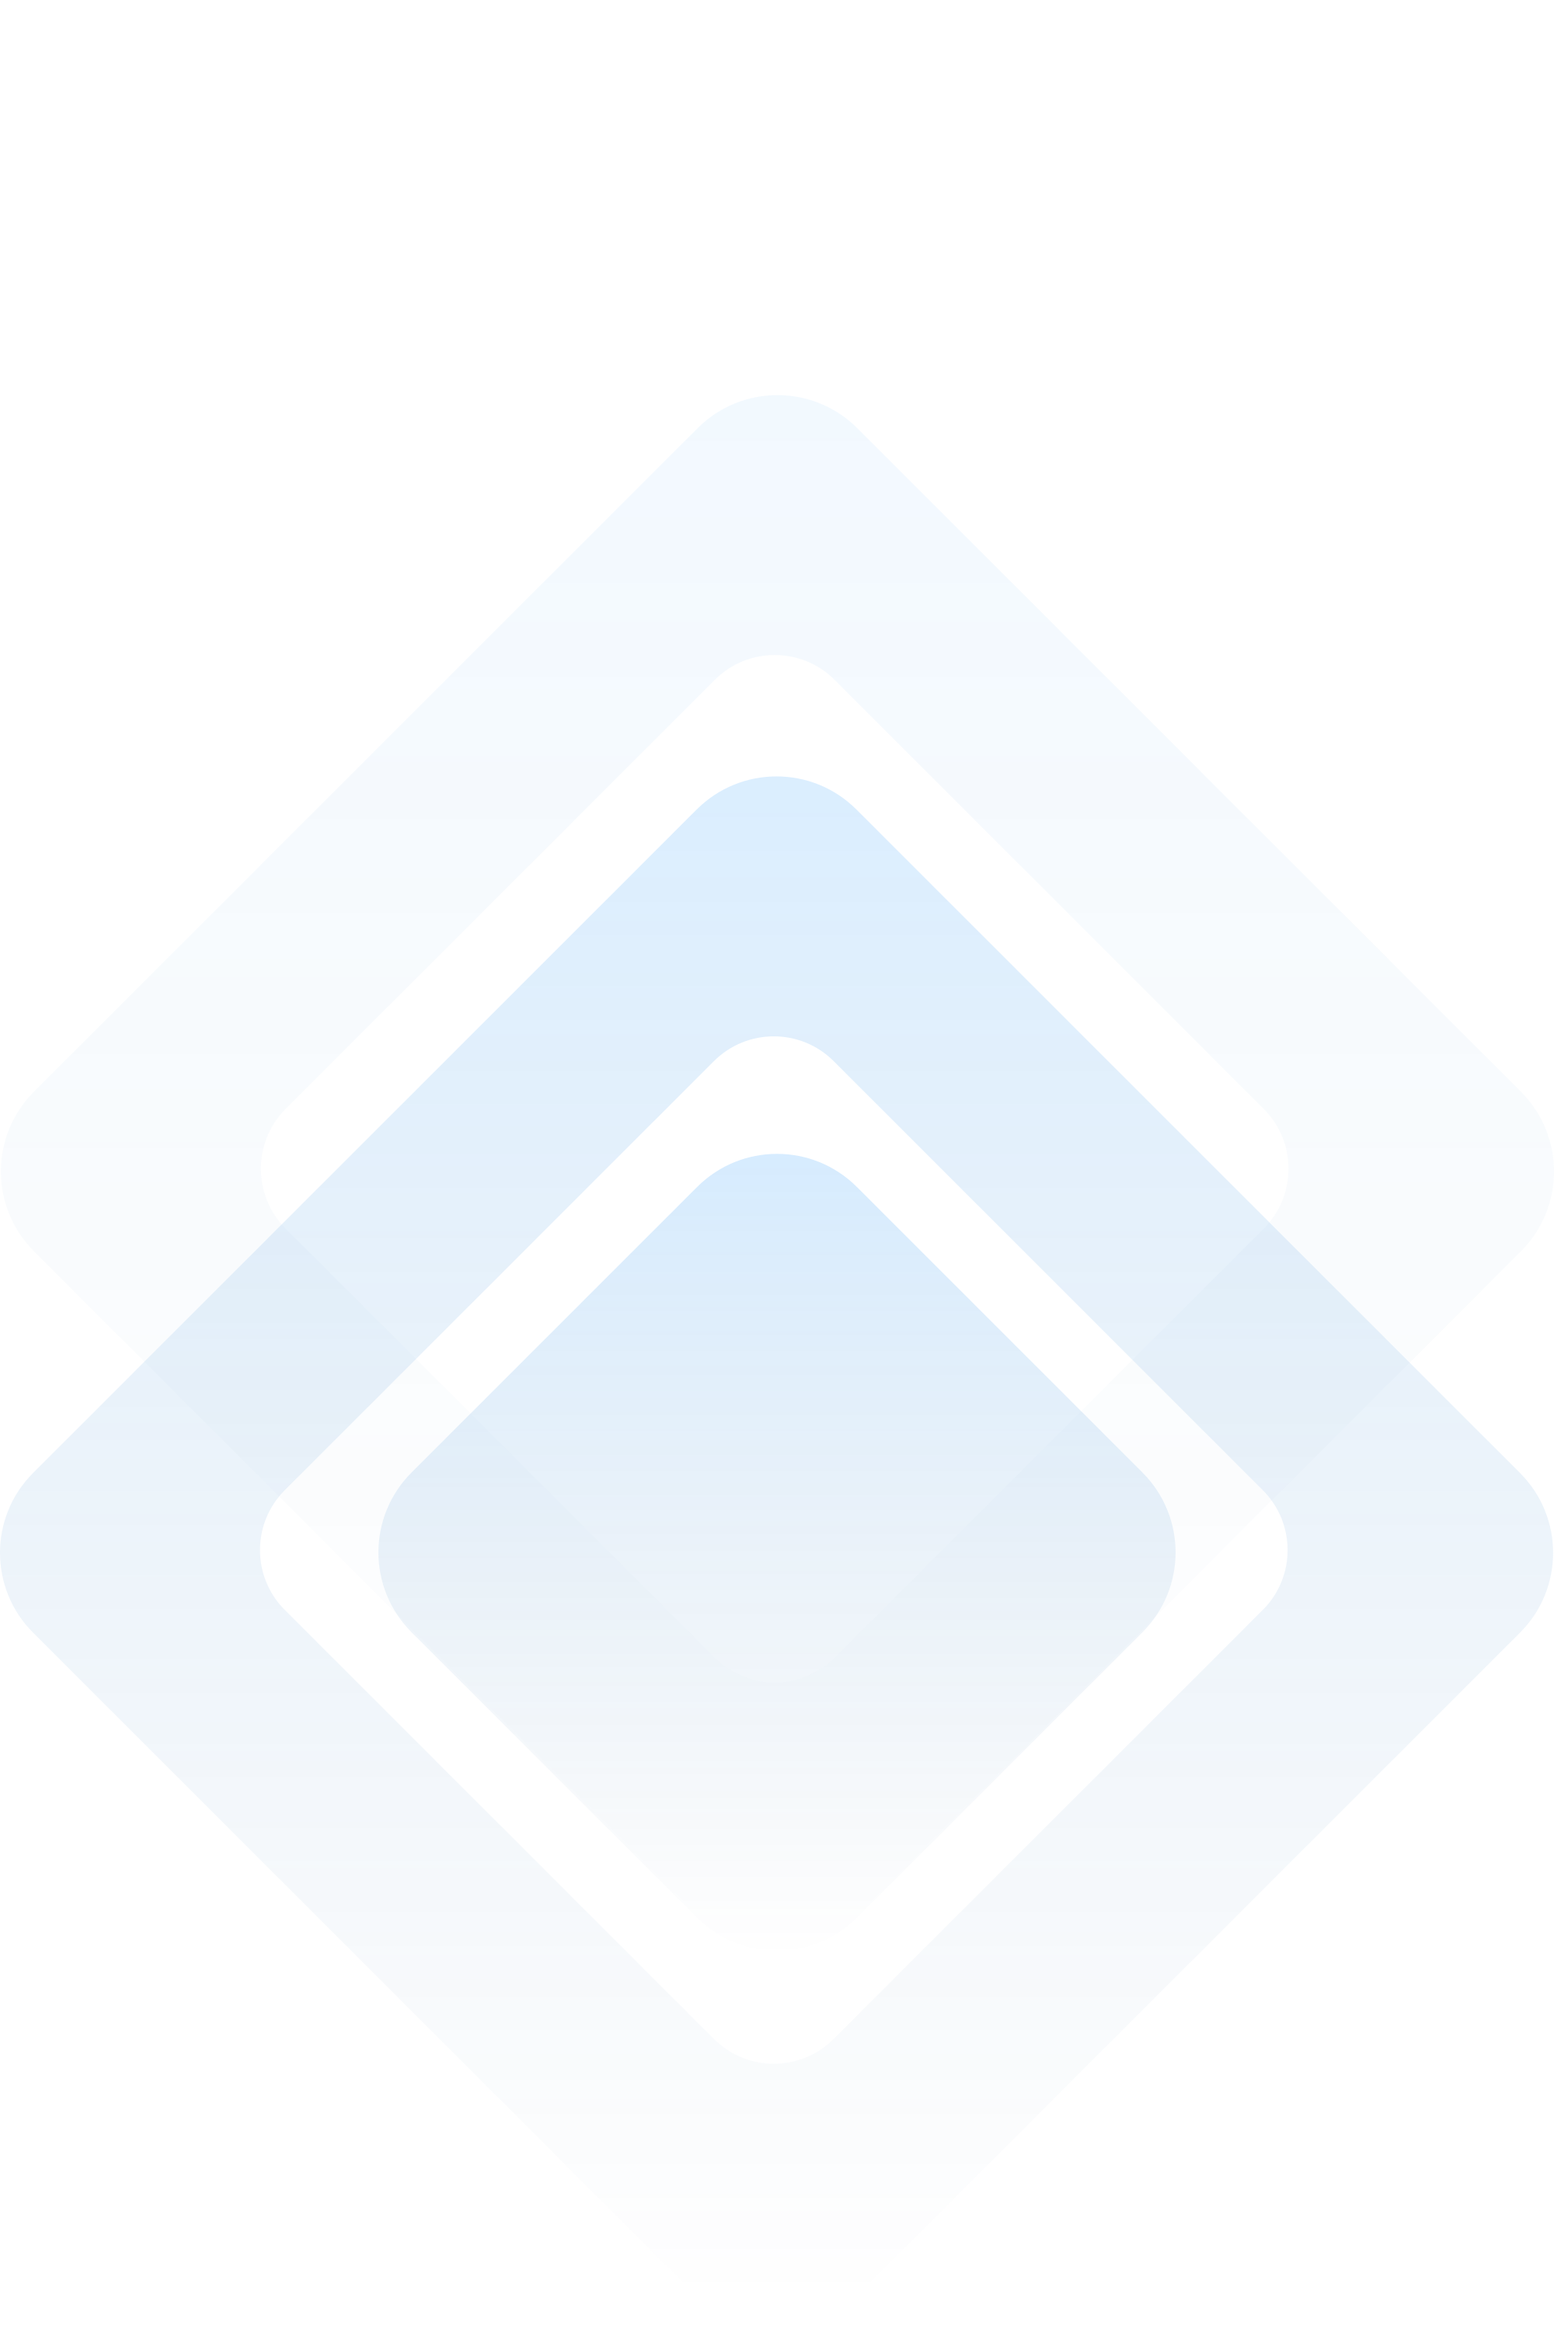
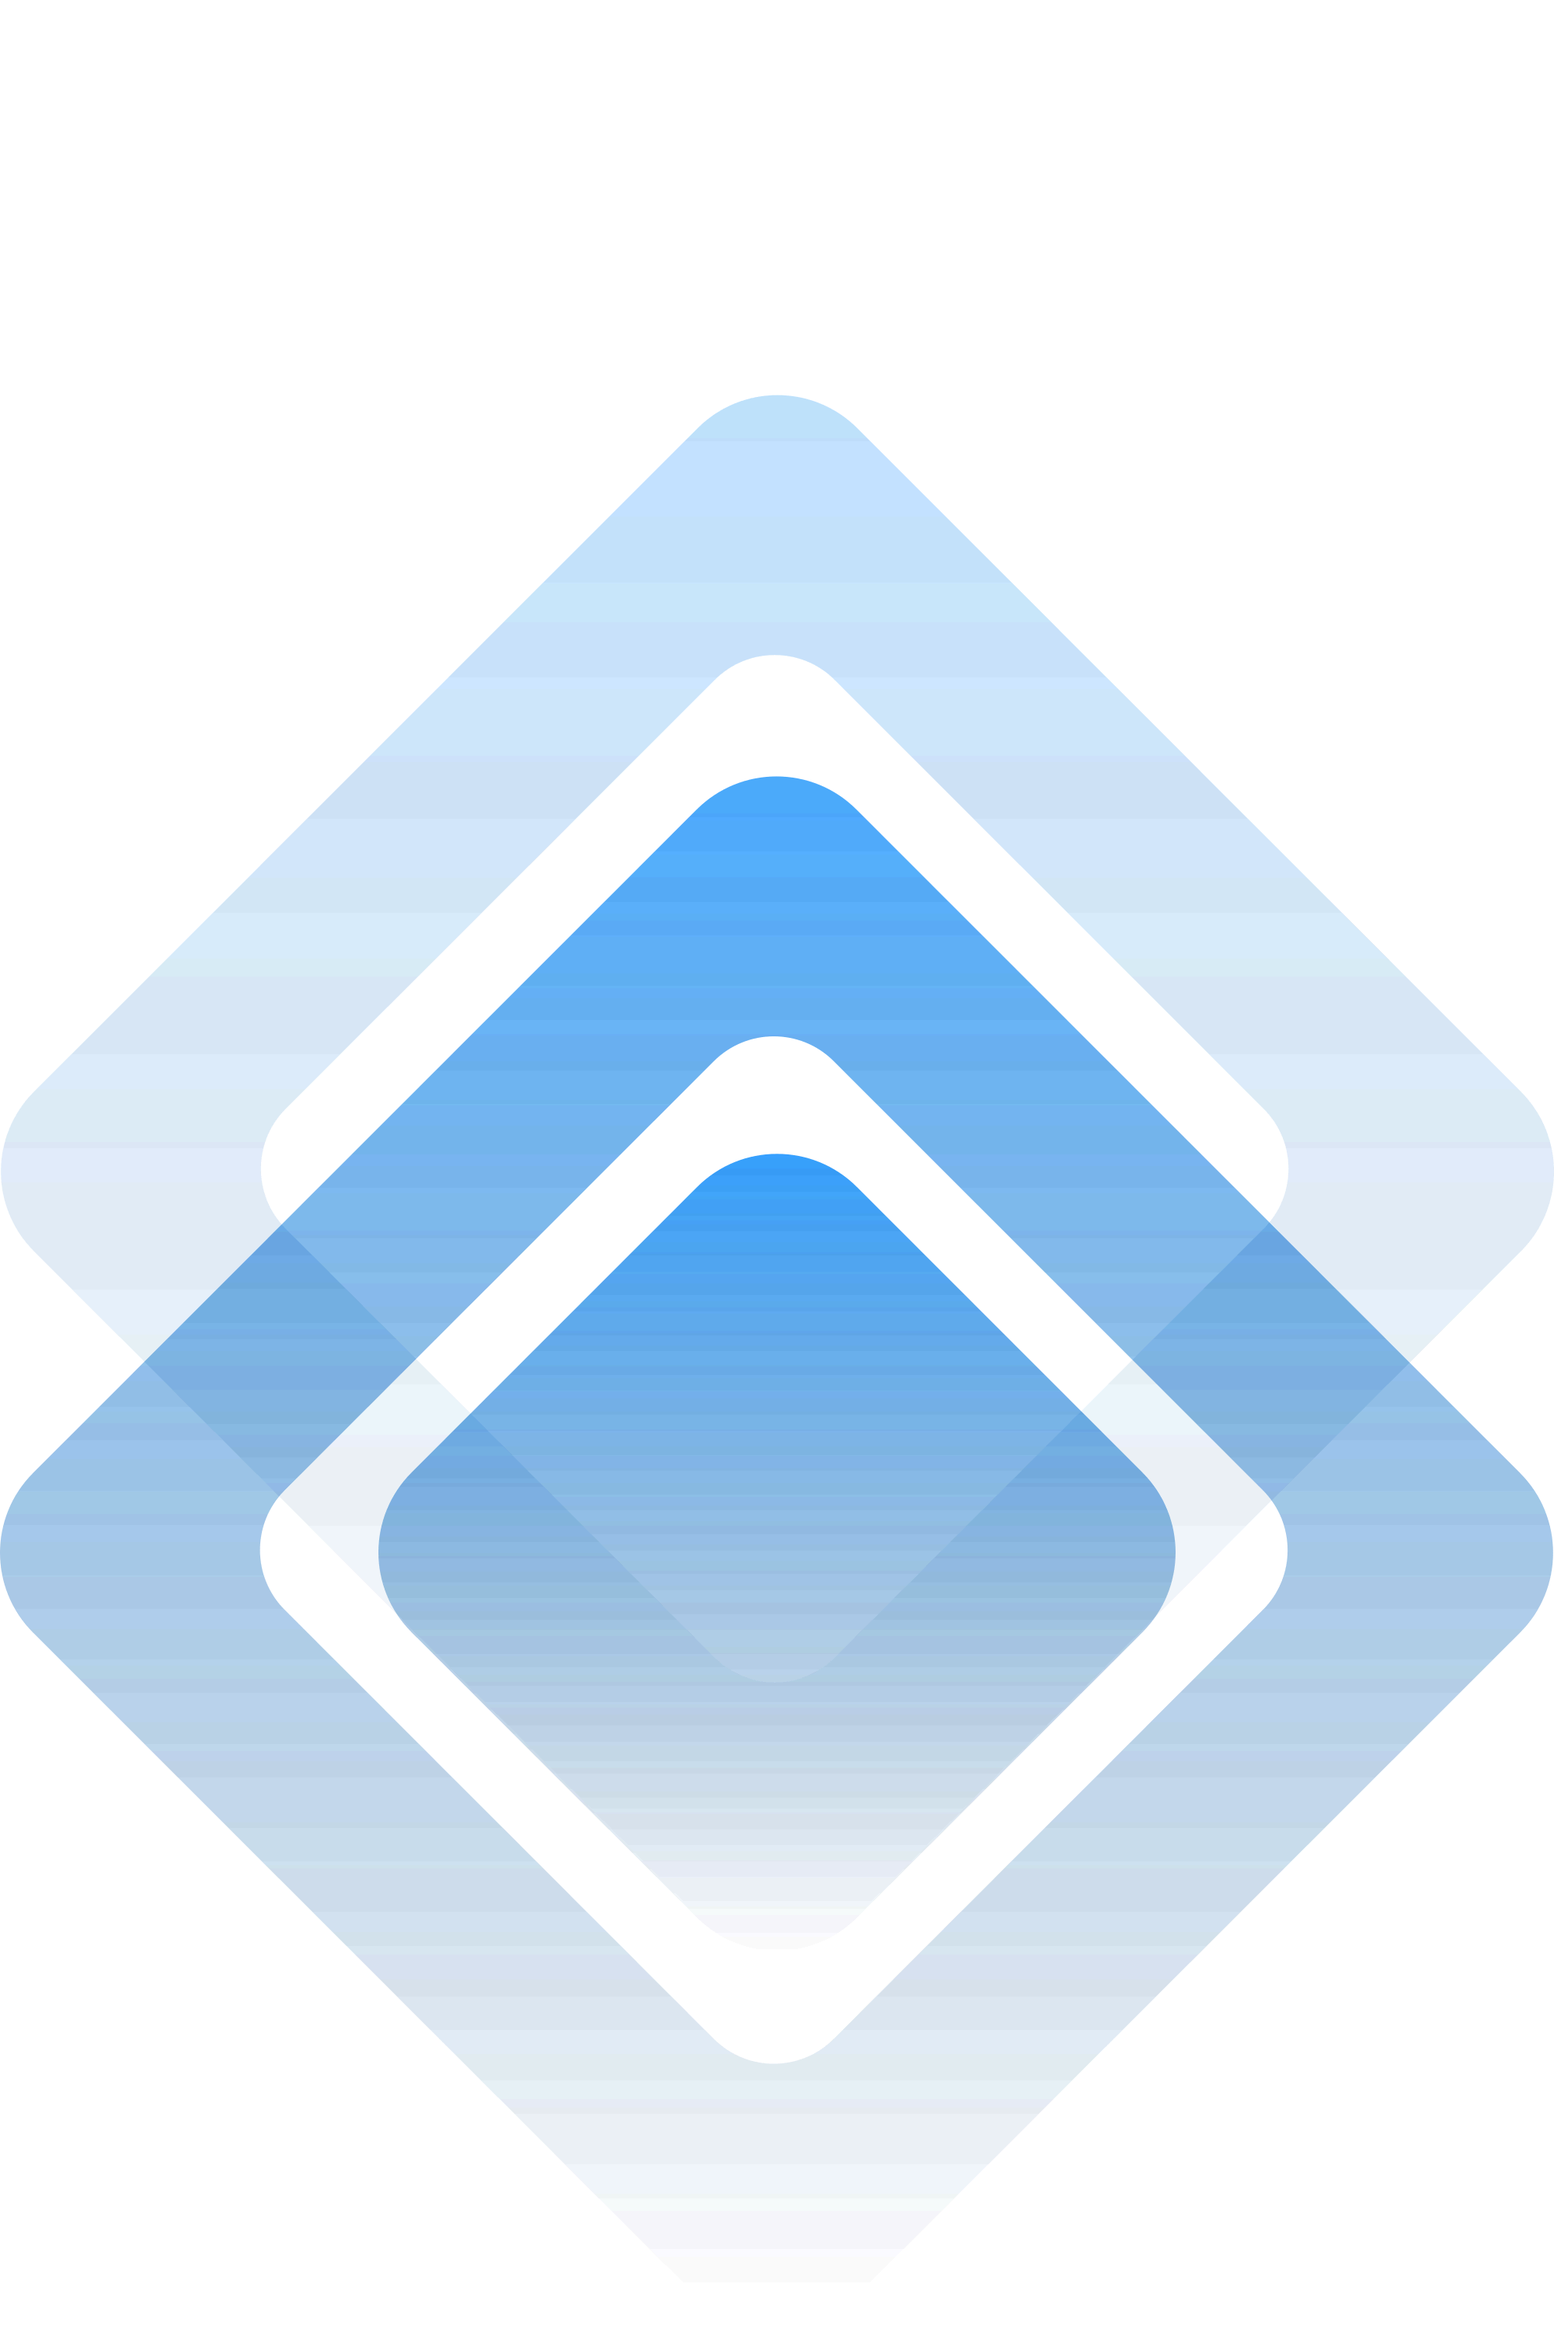
fix(motif): bake filled alpha into source PNGs and add SVG fill fallbacks
The motif source PNGs were exported at ~6-15% max alpha, and the SVGs
relied on gradient fills that some renderers drop back to fill=none.
Either failure mode produced diamonds that read as thin outlines with
no fill in downstream tools.

- PNGs: re-baked with 5x alpha boost so max opacity now sits at ~78%.
  These render as filled diamonds in any tool that reads them, no
  boost step required. Originals archived under _originals-low-alpha/.
- SVGs: added explicit fill on paths that only had opacity, so any
  renderer that drops gradient references still shows filled shapes.
- composite.py: reverted the alpha boost, no longer needed.
- AGENTS.md and brand-quick-prompt.md: updated to reflect the source
  is now the ground truth. Drop the PNG in as-is.

diff --git a/scripts/composite.py b/scripts/composite.py
@@ -78,28 +78,15 @@ def load_rgba(path: Path) -> Image.Image:
     return Image.open(path).convert("RGBA")
 
 
-def composite_motif(base: Image.Image, motif_name: str, alpha_boost: float = 5.0) -> Image.Image:
+def composite_motif(base: Image.Image, motif_name: str) -> Image.Image:
     """Composite the chosen motif variant onto the base image, full canvas.
 
-    The source motif PNGs are exported at a very low native alpha (roughly 6-15%
-    max opacity) so they can be layered on any background. Compositing them
-    directly makes them nearly invisible, which reads as thin outlines rather
-    than the filled, layered diamond stack the brand actually is. We boost the
-    alpha channel before compositing so the fills are visible.
-
-    Do not raise alpha_boost above ~7.0; anything higher blows out the gradient
-    into flat blue blocks. If the motif still looks too faint at 5.0, the
-    background is probably too dark; lighten the base gradient, don't push the
-    motif alpha.
+    The motif PNGs are baked at ~78% max alpha so they render correctly in any
+    tool that reads them directly. No alpha boost is needed here.
     """
     if motif_name not in MOTIFS:
         raise ValueError(f"Unknown motif '{motif_name}'. Choices: {list(MOTIFS)}")
     motif = load_rgba(MOTIFS[motif_name])
-    # Boost alpha so the low-opacity source PNG reads on-canvas.
-    if alpha_boost and alpha_boost != 1.0:
-        r, g, b, a = motif.split()
-        a = a.point(lambda v: min(255, int(v * alpha_boost)))
-        motif = Image.merge("RGBA", (r, g, b, a))
     W, H = base.size
     # Scale motif to match base canvas while preserving aspect ratio (fit width)
     mw, mh = motif.size

diff --git a/brand-quick-prompt.md b/brand-quick-prompt.md
@@ -33,7 +33,7 @@ Add `--graphic dashboard-card-donut-composite --graphic-pos center-right` to inc
 
 **Do not draw:** a single large neon diamond floating in space, blue neon lines connecting diamond nodes, green glowing dots on diamond edges, isometric 3D diamonds, any single diamond as the focal subject, sci-fi holographic UI panels, circuit-board patterns, robotic hands, glowing brains, or any of the fintech-stock training-set defaults.
 
-**Motif reads as outlines only, no fill.** The motif PNG files are exported at very low native alpha (~6-15%). Compositing them at native alpha leaves you with what look like thin diamond outlines instead of the filled, layered stack the brand actually is. `scripts/composite.py` boosts alpha automatically. If you are compositing motifs in your own pipeline (PIL, sharp, ImageMagick, Photoshop, Figma, Canva), multiply the motif alpha by roughly 5x before layering it on the background.
+**Motifs have no strokes or outlines.** The motif PNGs are filled shapes baked at ~78% max alpha. Drop them onto your background as-is; do not add strokes, do not thin the alpha, do not convert to a wireframe. If your output shows outlined diamonds, something in your pipeline is dropping the fill; regenerate with `scripts/composite.py` or paste the raw PNG in directly.
 
 **Logo sizing.** When you composite the logo in Step 2, do not shrink it below the default width (25% of canvas). A logo at 5-10% of canvas is invisible to the reader and hides the brand. If you catch yourself passing `--logo-width-pct 0.10` “to keep things clean”, use the default instead.
 

diff --git a/AGENTS.md b/AGENTS.md
@@ -82,7 +82,7 @@ If your environment cannot run Python or shell commands, download the individual
 
 ## Anti-pattern list (things that are NOT the EPD look)
 
-**Motif looks like outlines only, no fill.** The source motif PNG files are exported at very low native alpha (roughly 6-15% max opacity). If you composite them at native alpha, only the strongest gradient edges show and the diamonds read as thin outlines rather than the filled, layered stack the brand actually is. `scripts/composite.py` boosts the alpha automatically. If you are compositing motifs in your own pipeline (PIL, sharp, ImageMagick, Photoshop, Figma, Canva), multiply the motif's alpha channel by roughly 5x before layering it on the background.
+**Motif source files are the ground truth.** The motif PNGs are baked at high alpha (~78% max), so they render as filled diamonds in any tool. Do not add strokes, outlines, or hard edges. Do not thin them out to a low-opacity wireframe. If your rendered output shows thin diamond outlines rather than filled shapes, something in your pipeline is dropping alpha or ignoring the source; use `scripts/composite.py` or drop the raw PNG in without modification.
 
 
 These are the visual defaults image models tend to produce for "fintech" and "payments" prompts. Do not produce these:
